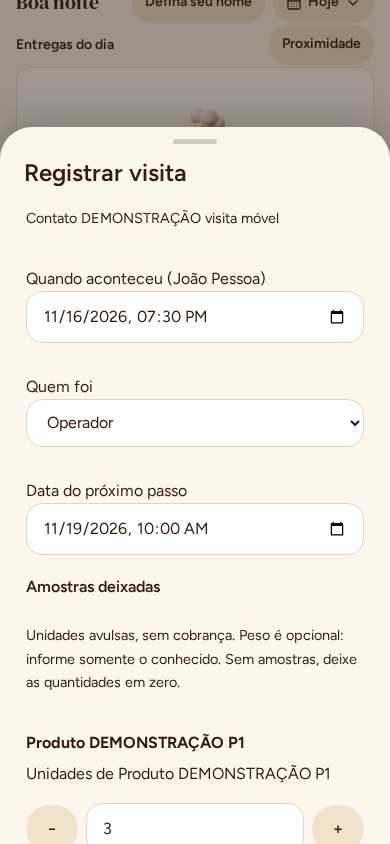
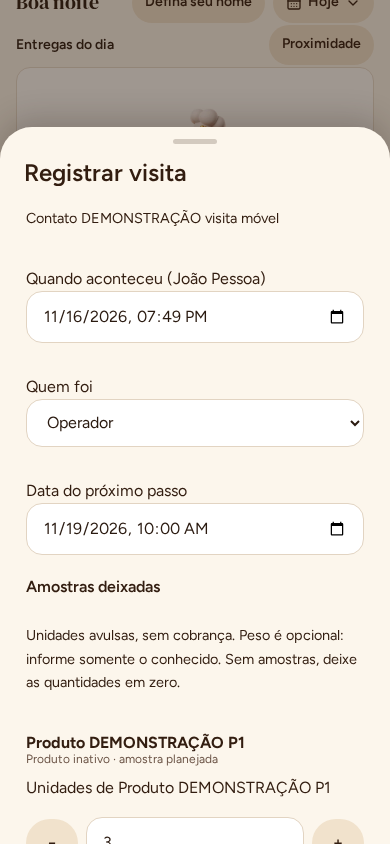
test(R7b): finalize mobile flow, query index and handoff

Changed region(s): [[0.0615, 0.8934, 0.9538, 1.0], [0.4, 0.3697, 0.4615, 0.4005]]

diff --git a/src/features/field/TravelSheet.tsx b/src/features/field/TravelSheet.tsx
@@ -185,25 +185,27 @@ export function TravelSheet({
             ))}
           </select>
         </label>
-        <fieldset>
-          <legend>Pedidos atendidos</legend>
-          {orders.map((o) => (
-            <label key={o.id}>
-              <input
-                type="checkbox"
-                checked={selected.includes(o.id)}
-                onChange={(e) =>
-                  setSelected(
-                    e.target.checked
-                      ? [...selected, o.id]
-                      : selected.filter((id) => id !== o.id),
-                  )
-                }
-              />
-              {o.customer_name} · {money(o.total_cents)}
-            </label>
-          ))}
-        </fieldset>
+        {!visit && (
+          <fieldset>
+            <legend>Pedidos atendidos</legend>
+            {orders.map((o) => (
+              <label key={o.id}>
+                <input
+                  type="checkbox"
+                  checked={selected.includes(o.id)}
+                  onChange={(e) =>
+                    setSelected(
+                      e.target.checked
+                        ? [...selected, o.id]
+                        : selected.filter((id) => id !== o.id),
+                    )
+                  }
+                />
+                {o.customer_name} · {money(o.total_cents)}
+              </label>
+            ))}
+          </fieldset>
+        )}
         <label>
           Observação
           <textarea value={notes} onChange={(e) => setNotes(e.target.value)} />

diff --git a/src/features/p1/Reminders.tsx b/src/features/p1/Reminders.tsx
@@ -41,13 +41,14 @@ export function TodayReminders({ day }: { day: string }) {
     [notice, setNotice] = useState(''),
     [error, setError] = useState(''),
     [busy, setBusy] = useState(false);
+  const refreshReminders = view.refresh;
   useEffect(() => {
     const refresh = () => {
-      void view.refresh();
+      void refreshReminders();
     };
     window.addEventListener('reminders-changed', refresh);
     return () => window.removeEventListener('reminders-changed', refresh);
-  }, [view.refresh]);
+  }, [refreshReminders]);
   return (
     <section className="panel today-reminders">
       {show && (

diff --git a/tests/e2e/visits.spec.js b/tests/e2e/visits.spec.js
@@ -267,6 +267,9 @@ test('R7b agendar, produzir unidades, registrar e escolher lembrete/corrida sem 
       exact: true,
     });
     await expect(trip).toContainText('Prospecção');
+    await expect(
+      trip.getByRole('group', { name: 'Pedidos atendidos', exact: true }),
+    ).toHaveCount(0);
     await trip.getByRole('button', { name: 'Pular', exact: true }).click();
     expect(await count('expense_events')).toBe(0);
     await vcard

diff --git a/src/features/p1/Agenda.tsx b/src/features/p1/Agenda.tsx
@@ -74,9 +74,7 @@ export function Agenda({ visits = false }: { visits?: boolean }) {
           ['closing', 'Fechamentos'],
           ['due', 'Vencimentos'],
           ['reminder', 'Lembretes'],
-          ...(view.data?.visits_enabled
-            ? [['visit', 'Visitas de apresentação'] as const]
-            : []),
+          ...(visits ? [['visit', 'Visitas de apresentação'] as const] : []),
         ]}
       />
       <p>

diff --git a/tests/integration/migrations.py b/tests/integration/migrations.py
@@ -87,6 +87,8 @@ class VisitMigrationTests(unittest.TestCase):
             self.db.execute("INSERT INTO prospect_visits(organization_id,id,customer_id,scheduled_at,data) VALUES('demo-other','visit-wrong','demo-customer','2030-01-07T13:00:00Z','{}')")
         with self.assertRaises(sqlite3.IntegrityError):
             self.db.execute("INSERT INTO prospect_visit_records(organization_id,visit_id,user_id,data) VALUES('demo-other','visit-demo','demo-user','{}')")
+        plan = self.db.execute("EXPLAIN QUERY PLAN SELECT * FROM prospect_visits WHERE organization_id=? AND scheduled_at>=? AND scheduled_at<? ORDER BY scheduled_at,id", ('demo-org','2030-01-07','2030-01-09')).fetchall()
+        self.assertTrue(any('prospect_visits_range' in row[-1] for row in plan))
         self.assertEqual(list(self.db.execute('PRAGMA foreign_key_check')), [])
 
 class ProspectMigrationTests(unittest.TestCase):

diff --git a/docs/colaboracao/CODEX_PARA_CLAUDE.md b/docs/colaboracao/CODEX_PARA_CLAUDE.md
@@ -1,3 +1,36 @@
+## R7b — entrega para revisão (16/11/2026)
+
+Branch `codex/r7b-prospect-visits`, versão **0.14.0**. Main **c211d36** incorporado: a ativação dos Contatos/0.13.1 feita pelo fluxo responsável foi preservada. Conforme a FILA,0024 já foi aplicada pelo responsável; o Codex não executou essa operação. Somente R7-3/4/5; nenhuma edição autoral da FILA/VEZ.
+
+### Produzido
+
+- **R7-3 concluído:** agendamento por Contatos, Mais ou Visitas e amostras; data/hora, planejamento por sabor/unidades e observação. Edição/cancelamento com versão/motivo. Cartões no Hoje por papel e eventos/filtro na Agenda/ICS; Mapa (Google/Waze/Apple), WhatsApp abre conversa humana, Uber abre destino e99 copia endereço. Sem pedido ou corrida automáticos.
+- **R7-4 concluído:** folha Registrar visita com unidades/fotos/+−, quem foi, quando aconteceu, observação e próximo passo (+3dias sugerido/editável). Registro imutável separado de vendas, com snapshot de sabor/peso informado, autoria e auditoria. Funil avança por registro humano; Não teve interesse e Virou cliente são preservados. Visitas existentes continuam editáveis/registráveis após conversão e todo histórico permanece no mesmo cliente.
+- Ofertas de **lembrete** e **corrida de prospecção** abrem os módulos existentes. Cancelar/Pular não grava. Só Salvar lembrete cria o lembrete ligado ao contato; controle de aviso no celular mantém opt-in existente. Só Registrar despesa paga cria corrida/vínculo e, acima de zero, despesa Prospecção; zero registra somente deslocamento. Estorno respeita regra existente de autor/dia/administrador. Não há pedido fictício nem rateio por venda para uma visita.
+- **R7-5 concluído:** demanda de amostras em seção separada da produção vendida, somada em unidades por sabor/data/peso informado, para hoje/amanhã ou dias selecionados. Canceladas/registradas e contatos arquivados não demandam produção. Sem peso aparece a definir; não se inventa peso ou custo. Produto desativado não entra em novos planos, mas amostra já planejada pode ser registrada historicamente.
+- **0025 aditiva**, sem exemplos, com visitas/registros/vínculo de corrida, índices por organização/data/cliente e FKs compostas. Schema readiness protege bancos até0023/0024 e flag desligada. Agendamentos/registros em KEEP/backup; vínculo operacional de corrida acompanha limpeza dos deslocamentos de teste. Guia [FASE_R7B](../FASE_R7B.md), capturas `r7b-hoje.png`, `r7b-producao.png`, `r7b-registrar.png` (390×844, DEMONSTRAÇÃO). Tokens, Button/DisclosureSummary, AppUpdate, skeletons e gestos preservados; sem backdrop-filter novo.
+
+### Testes executados
+
+- **144 unitários (36 arquivos),241 verificações de segurança e9 testes SQL** aprovados. Todas as rotas novas na matriz (401 sem sessão,404 outro tenant/coleção isolada, operadora autorizada). Tipos/lint sem erros ou avisos, formatação/build Pages/diff aprovados; permanece aviso preexistente de chunk grande no build.
+- Integração R7b: agendar/editar/cancelar, agenda/ICS, produção em unidades separadas, CAS concorrente/idempotência, quem foi/tenant, bloqueios de entrada, registro sem faturamento/saldo/lembrete/despesa, conversão e desinteresse preservados, histórico de sabor inativo, corrida explícita/estorno e compatibilidade até0023/0024/flagoff.
+- **65 visitas no Hoje:30 preparações SQL no handler** (orçamento45, reserva de5 para autenticação/middleware até o teto50), usando o handler real/D1 efêmero. Sem N+1 de visitas/amostras. Kits continuam com67 modelos/41SQL (orçamento46).
+- Backup/restauração SQLite incluindo3 tabelas novas e FKs, limpeza/KEEP, APIs de gestão/listagens, P1 completo (agenda/relatórios/despesas/receitas), campo/fotos privadas, financeiro/endereço, operações/mensagens, kits e R7a aprovados.
+- **42 E2E de regressão aprovados nos três projetos**: R7b, R7a, campos/financeiro, operações, agenda, push, AppUpdate, skeletons e gestos. **9 E2E finais R7b/campo aprovados após incorporação do main**, incluindo sabor desativado depois do plano, cancelamento das ofertas sem gravação, salvamento separado do lembrete e corrida, conversão preservando registros e fallback0024. Chromium móvel/WebKit móvel/Chromium desktop, CSP real e dados fictícios.
+- CI completo/Segurança são os automáticos do PR. Nenhum workflow manual disparado pelo Codex.
+
+### Limitações
+
+Sem aparelho físico. Consulta limitada a200 visitas; filtro de período disponível inclusive no histórico do contato. Registro concluído não é sobrescrito; ajuste de dados deve ser conferido antes de salvar. Quem foi usa equipe cadastrada/autor. Peso opcional e custo das amostras ainda sem estimativa; R7c fará custos/modelos/relatórios de conversão. A diferença entre unidades planejadas/deixadas não gera perda, baixa de estoque ou despesa implícita. Lembrete sem próxima data não é oferecido. Entrega de avisos depende da autorização do aparelho no módulo existente.
+
+Nenhuma operação Cloudflare/D1 remoto, aplicação de migração, alteração autoral de flags, catálogo ou serviço pago. Uso mensal de Actions indisponível à integração; conferir limite da fila. Limpeza operacional de corridas de teste apaga seus vínculos, mas preserva os registros da visita/amostras; limpeza de clientes permanece bloqueada por KEEP.
+
+### Pendências
+
+Claude revisar/publicar com CI/Segurança verdes, sem merge pelo Codex. **0025 no banco real depende do responsável**: backup/restauração, pré-checagem, aplicação autorizada e nova pré-checagem. Contatos já ligados continuam funcionando sem0025; Visitas só aparece com schema pronto. Input backup_verified ainda diz “Somente dados de teste”; se houver dados reais, revisar o procedimento antes, sem declarar condição falsa. O guia explicita isso; nenhuma ativação foi tentada pelo Codex.
+
+R7c e demais tarefas aguardam liberação da fila. Após a terceira entrega, vale a revisão geral prevista na FILA pelo Claude. Se CI falhar, corrigir no mesmo PR a partir do diagnóstico, respeitando as paradas.
+
 ## R7b — plano antes do código (16/11/2026)
 
 FILA/main90a50ac libera R7-3/4/5, versão0.14.0, em codex/r7b-prospect-visits. R7a publicada,0024/flag ainda dependem do responsável. Li R7 e AGENTS; nenhuma operação remota no Cloudflare/D1, ativação ou edição da FILA.
